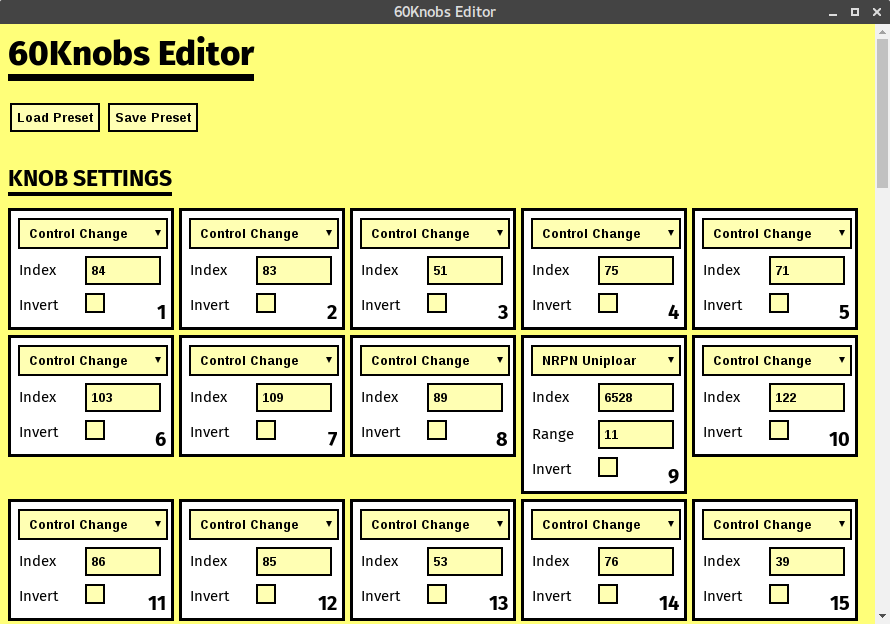
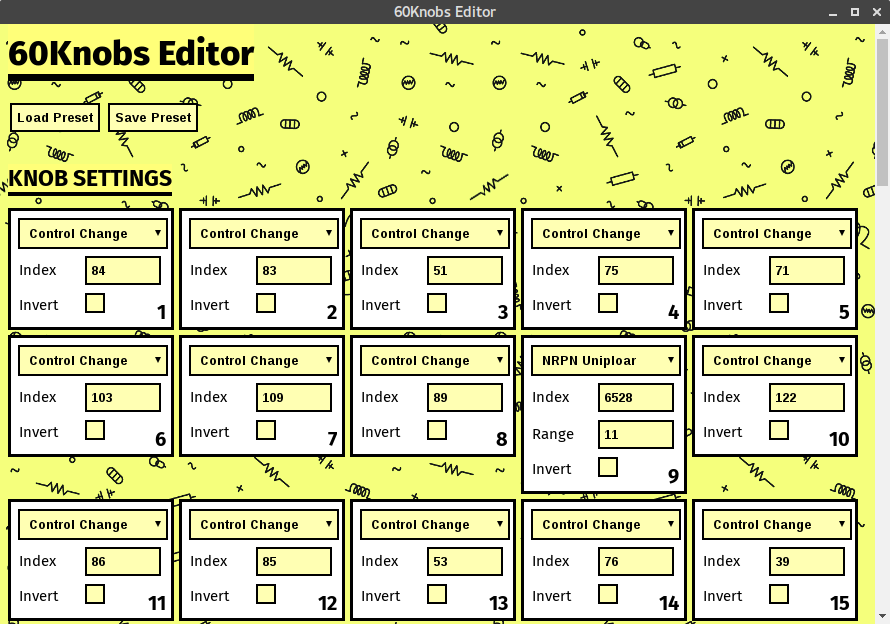
background picture

diff --git a/src/stylesheets/main.less b/src/stylesheets/main.less
@@ -2,6 +2,8 @@
 
 body {
 	background-color: #ffff79;
+	background-image: url("background-repeat.png");
+	padding: 0;
 	font-size: 15px;
 	font-family: "Fira Sans"
 }
@@ -16,6 +18,9 @@ body {
 	display: inline-block;
 	border-bottom: 7px solid black;
 	margin-bottom: 20px;
+	padding-top: 10px;
+	margin-top: -10px;
+	background-color: #ffff79;
 }
 section {
 	display:block;
@@ -30,6 +35,7 @@ section>header {
 	margin-bottom: 12px;
 	display: inline-block;
 	border-bottom: 4px solid black;
+	background-color: #ffff79;
 }
 #knob-container {
 	display: block;
@@ -64,6 +70,7 @@ section>header {
 .result {
 	display: inline-block;
 	font-weight:600;
+	background-color: #ffff79;
 }
 .result.error {
 	color: red;
@@ -74,7 +81,11 @@ input[type="number"] {
 	width: 62px;
 }
 
-
+section:not(#knobs) table {
+	background-color: white;
+	border: 3px solid black;
+	padding: 4px;
+}
 
 
 label {

diff --git a/tasks/build_app.js b/tasks/build_app.js
@@ -34,6 +34,11 @@ gulp.task('icon', () => {
   .pipe(gulp.dest(destDir.path('')));
 });
 
+gulp.task('images', () => {
+  return gulp.src(srcDir.path('stylesheets/*.png'))
+  .pipe(gulp.dest(destDir.path('stylesheets')));
+});
+
 gulp.task('watch', () => {
   const beepOnError = (done) => {
     return (err) => {
@@ -52,4 +57,4 @@ gulp.task('watch', () => {
   }));
 });
 
-gulp.task('build', ['bundle', 'less', 'icon']);
+gulp.task('build', ['bundle', 'less', 'icon', 'images']);

diff --git a/app/app.html b/app/app.html
@@ -88,7 +88,7 @@
   <table>
   	<tr id="portselect">
       <td>
-  		    <label>Select Port</label>
+  		    <label>MIDI Port</label>
         </td>
         <td>
   	      <select>
